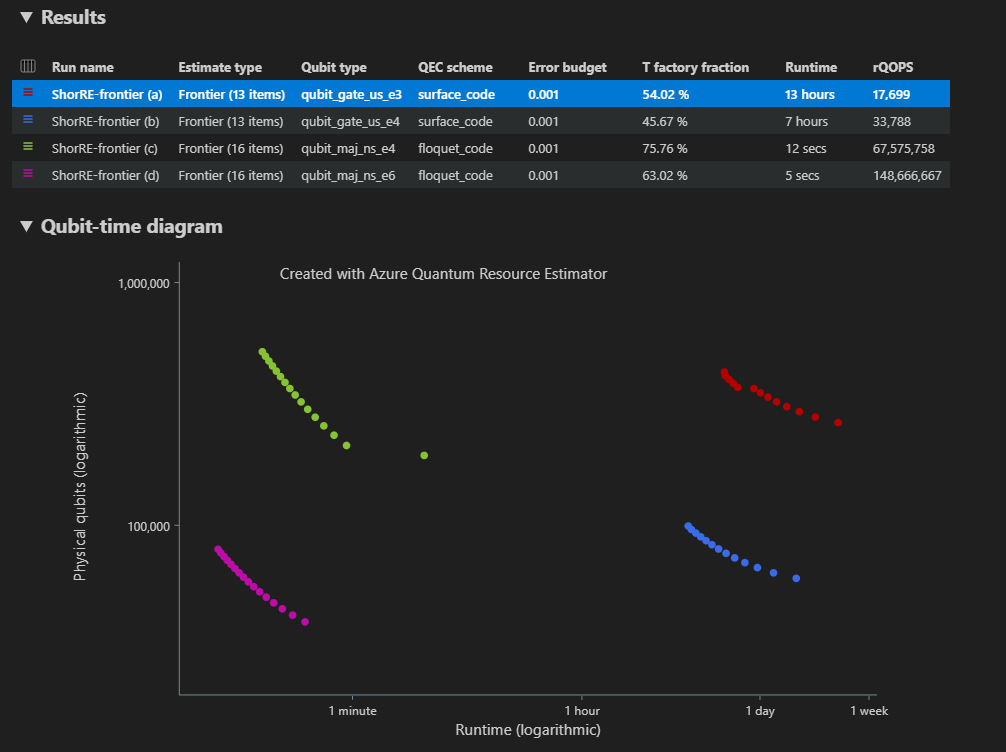
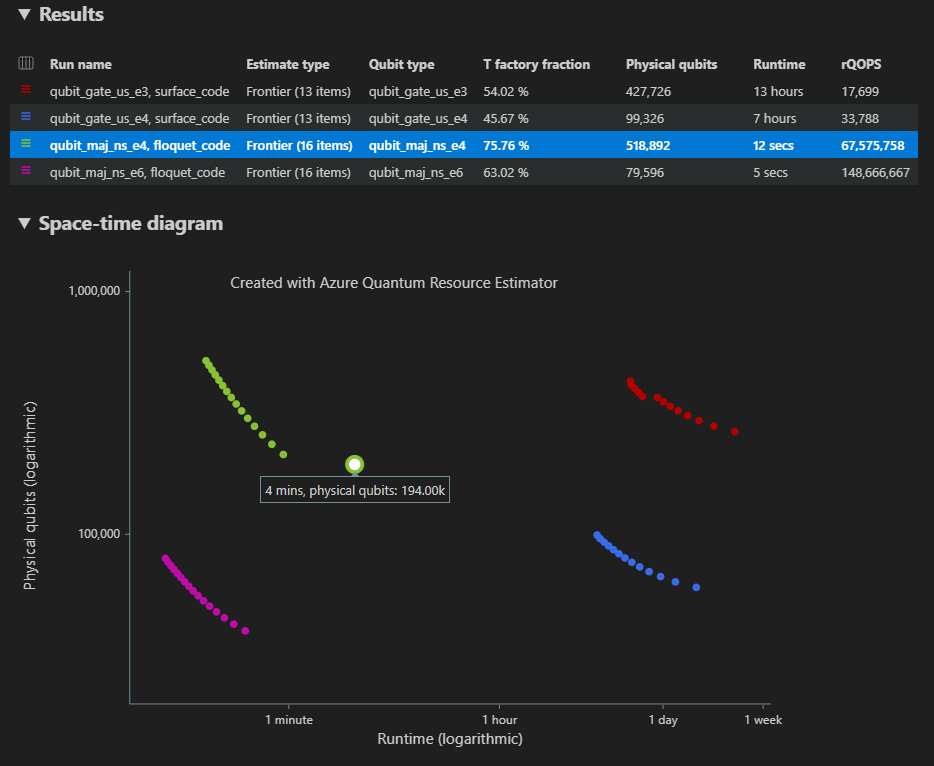
Updating diagrams

diff --git a/articles/includes/how-to-submit-resources-estimation-include-jupyter-local.md b/articles/includes/how-to-submit-resources-estimation-include-jupyter-local.md
@@ -438,9 +438,9 @@ In this example, the number of physical qubits required to run the algorithm are
 
 :::image type="content" source="../media/resource-estimator-diagram-jupyter.png" alt-text="Screen shot showing the space diagram of the Resource Estimator.":::
 
-### Qubit-time diagram
+### Space-time diagram
 
-The qubit-time diagram shows the tradeoffs between the number of physical qubits and the runtime of the algorithm. For more information, see [Qubit-time diagram](xref:microsoft.quantum.overview.resources-estimator-output.data#qubit-time-diagram).
+The space-time diagram shows the tradeoffs between the number of physical qubits and the runtime of the algorithm. For more information, see [Space-time diagram](xref:microsoft.quantum.overview.resources-estimator-output.data#space-time-diagram).
 
 You can use the `EstimatesOverview` function to visualize the qubit-time diagram of the Resource Estimator. 
 
@@ -453,7 +453,7 @@ The `EstimatesOverview` function also shows a table with the overall physical re
 
 :::image type="content" source="../media/qubit-time-diagram-jupyter-shorRE-1.png" alt-text="Screenshot showing how to select the estimates you want to display in the results table.":::
 
-In this case, the **Estimate type** is single estimate, thus the Resource Estimator calculates one point in the qubit-time diagram. If you want to see more combinations of $\text{\{number of qubits, runtime\}}$ pairs for the same algorithm, see [Running Pareto frontier estimation](#running-pareto-frontier-estimation).
+In this case, the **Estimate type** is single estimate, thus the Resource Estimator calculates one point of the space-time diagram. If you want to see more combinations of {number of qubits, runtime} pairs for the same algorithm, see [Running Pareto frontier estimation](#running-pareto-frontier-estimation).
 
 :::image type="content" source="../media/qubit-time-diagram-jupyter-shorRE.png" alt-text="Screenshot showing the qubit-time diagram of the Resource Estimator.":::
 
@@ -606,66 +606,66 @@ When estimating the resources of an algorithm, it's important to consider the tr
 
 The Pareto frontier estimation provides multiple estimates for the same algorithm, each with a tradeoff between the number of qubits and the runtime.
 
-To run the Resource Estimator using Pareto frontier estimation, you need to specify the `"estimateType"` target parameter as `"frontier"`. For example, run the same algorithm with the Majorana-based qubit parameters with a surface code using Pareto frontier estimation.
+1. To run the Resource Estimator using **Pareto frontier estimation**, you need to specify the `"estimateType"` target parameter as `"frontier"`. For example, run the same algorithm with the Majorana-based qubit parameters with a surface code using Pareto frontier estimation.
 
-```python
-result = qsharp.estimate("RunProgram()", params=
-                            {"qubitParams": { "name": "qubit_maj_ns_e4" },
-                            "qecScheme": { "name": "surface_code" },
-                            "estimateType": "frontier", # frontier estimation
-                            }
-                        )
-```
+    ```python
+    result = qsharp.estimate("RunProgram()", params=
+                                {"qubitParams": { "name": "qubit_maj_ns_e4" },
+                                "qecScheme": { "name": "surface_code" },
+                                "estimateType": "frontier", # frontier estimation
+                                }
+                            )
+    ```
 
-To see the results table and the space-time diagram, use the `EstimatesOverview` function.
+1. To see the results table and the space-time diagram, use the `EstimatesOverview` function.
 
-```python
-EstimatesOverview(result)
-```
+    ```python
+    EstimatesOverview(result)
+    ```
 
-In the "Estimate type" column of the results table, you can see the number of different combinations of $\text{\{number of qubits, runtime\}}$ for your algorithm. In this case, the Resource Estimator finds 22 different optimal combinations out of many thousands possible ones.
+1. In the **Estimate type** column of the results table, you can see the number of different combinations of {number of qubits, runtime} for your algorithm. In this case, the Resource Estimator finds 22 different optimal combinations out of many thousands possible ones.
 
-The space-time diagram shows the number of physical qubits and the runtime of the algorithm for each $\text{\{number of qubits, runtime\}}$ pair. You can hover over each point to see the details of the resource estimation at that point.
+1. The **space-time diagram** shows the number of physical qubits and the runtime of the algorithm for each {number of qubits, runtime} pair. You can hover over each point to see the details of the resource estimation at that point.
 
-:::image type="content" source="../media/qubit-time-frontier-estimation-jupyter-shorRE.png" alt-text="Screenshot showing the space-time diagram with frontier estimation of the Resource Estimator.":::
+    :::image type="content" source="../media/qubit-time-frontier-estimation-jupyter-shorRE.png" alt-text="Screenshot showing the space-time diagram with frontier estimation of the Resource Estimator.":::
 
 ### Batching with Pareto frontier estimation
 
-To estimate and compare multiple configurations of target parameters with frontier estimation, add `"estimateType": "frontier",` to the parameters.
+1. To estimate and compare multiple configurations of target parameters with frontier estimation, add `"estimateType": "frontier",` to the parameters.
 
-```python
-result = qsharp.estimate(
-    "RunProgram()",
-    [
-        {
-        "qubitParams": { "name": "qubit_maj_ns_e4" },
-        "qecScheme": { "name": "surface_code" },
-        "estimateType": "frontier", # Pareto frontier estimation
-        },
-        {
-        "qubitParams": { "name": "qubit_maj_ns_e6" },
-        "qecScheme": { "name": "floquet_code" },
-        "estimateType": "frontier", # Pareto frontier estimation
-        },
-    ]
-)
+    ```python
+    result = qsharp.estimate(
+        "RunProgram()",
+        [
+            {
+            "qubitParams": { "name": "qubit_maj_ns_e4" },
+            "qecScheme": { "name": "surface_code" },
+            "estimateType": "frontier", # Pareto frontier estimation
+            },
+            {
+            "qubitParams": { "name": "qubit_maj_ns_e6" },
+            "qecScheme": { "name": "floquet_code" },
+            "estimateType": "frontier", # Pareto frontier estimation
+            },
+        ]
+    )
+    
+    EstimatesOverview(result, colors=["#1f77b4", "#ff7f0e"], runNames=["e4 Surface Code", "e6 Floquet Code"])
+    ```
+    
+    :::image type="content" source="../media/qubit-time-frontier-multiple-config-shorRE.png" alt-text="Screenshot showing the space-time diagram of the Resource Estimator when using Pareto frontier estimation and multiple configurations of parameters.":::
+    
+    > [!NOTE]
+    > You can define colors and run names for the qubit-time diagram using the `EstimatesOverview` function.
 
-EstimatesOverview(result, colors=["#1f77b4", "#ff7f0e"], runNames=["e4 Surface Code", "e6 Floquet Code"])
-```
+1. When running multiple configurations of target parameters using the Pareto frontier estimation, you can see the resource estimates for a specific point of the space-time diagram, that is for each {number of qubits, runtime} pair. For example, the following code shows the estimate details usage for the second (estimate index=0) run and the fourth (point index=3) shortest runtime.
 
-:::image type="content" source="../media/qubit-time-frontier-multiple-config-shorRE.png" alt-text="Screenshot showing the space-time diagram of the Resource Estimator when using Pareto frontier estimation and multiple configurations of parameters.":::
+    ```python
+    EstimateDetails(result[1], 4)
+    ```
 
-> [!NOTE]
-> You can define colors and run names for the qubit-time diagram using the `EstimatesOverview` function.
+1. You can also see the space diagram for a specific point of the space-time diagram. For example, the following code shows the space diagram for the first run of combinations (estimate index=0) and the third shortest runtime (point index=2).
 
-When running multiple configurations of target parameters using the Pareto frontier estimation, you can see the resource estimates for a specific point of the space-time diagram, that is for each $\text{\{number of qubits, runtime\}}$ pair. For example, the following code shows the estimate details usage for the second (estimate index=0) run and the fourth (point index=3) shortest runtime.
-
-```python
-EstimateDetails(result[1], 4)
-```
-
-You can also see the space diagram for a specific point of the space-time diagram. For example, the following code shows the space diagram for the first run of combinations (estimate index=0) and the third shortest runtime (point index=2).
-
-```python
-SpaceChart(result[0], 2)
-```
+    ```python
+    SpaceChart(result[0], 2)
+    ```

diff --git a/articles/includes/how-to-submit-resources-estimation-include-qsharp-local.md b/articles/includes/how-to-submit-resources-estimation-include-qsharp-local.md
@@ -391,7 +391,7 @@ namespace Shors {
 
 ## Run the Resource Estimator
 
-The Resource Estimator offers [six pre-defined qubit parameters](xref:microsoft.quantum.overview.resources-estimator#physical-qubit-parameters), four of which have gate-based instruction sets and two that have a Majorana instruction set. It also offers two [quantum error correction codes](xref:microsoft.quantum.overview.resources-estimator#quantum-error-correction-codes), `surface_code` and `floquet_code`.
+The Resource Estimator offers [six predefined qubit parameters](xref:microsoft.quantum.overview.resources-estimator#physical-qubit-parameters), four of which have gate-based instruction sets and two that have a Majorana instruction set. It also offers two [quantum error correction codes](xref:microsoft.quantum.overview.resources-estimator#quantum-error-correction-codes), `surface_code` and `floquet_code`.
 
 In this example, you run the Resource Estimator using the `qubit_gate_us_e3` qubit parameter and the `surface_code` quantum error correction code. 
 
@@ -402,22 +402,30 @@ In this example, you run the Resource Estimator using the `qubit_gate_us_e3` qub
 
 ## View the results
 
-1. The result of the resource estimation is displayed in the **Q# Estimate** window.
+The Resource Estimator provides multiple estimates for the same algorithm, each showing tradeoffs between the number of qubits and the runtime. Understanding the tradeoff between runtime and system scale is one of the more important aspects of resource estimation.  
+
+The result of the resource estimation is displayed in the **Q# Estimate** window. 
+
 1. The **Results** tab displays a summary of the resource estimation. **Click the icon** next to the first row to select the columns you want to display. You can select from run name, estimate type, qubit type, qec scheme, error budget, logical qubits, logical depth, code distance, T states, T factories, T factory fraction, runtime, rQOPS, and physical qubits.
 
     :::image type="content" source="../media/vscode-estimates-local-results-tab-shorRE.png" alt-text="Screenshot showing how to display the menu to select the resource estimate outputs of your choice.":::
 
-1. The **Space-time diagram** shows the tradeoffs between the number of physical qubits and the runtime of the algorithm. In the "Estimate type" column of the results table, you can see the number of different combinations of $\text{\{number of qubits, runtime\}}$ for your algorithm algorithm. In this case, the Resource Estimator finds 17 different optimal combinations out of many thousands possible ones.
+    In the **Estimate type** column of the results table, you can see the number of optimal combinations of *{number of qubits, runtime}* for your algorithm. These combinations can be seen in the space-time diagram.
+
+1. The **Space-time diagram** shows the tradeoffs between the number of physical qubits and the runtime of the algorithm. In this case, the Resource Estimator finds 13 different optimal combinations out of many thousands possible ones. You can hover over each {number of qubits, runtime} point to see the details of the resource estimation at that point.
 
     :::image type="content" source="../media/qubit-time-diagram-shorRE.png" alt-text="Screenshot showing the space-time diagram of the Resource Estimator.":::
 
-    The space-time diagram shows the number of physical qubits and the runtime of the algorithm for each $\text{\{number of qubits, runtime\}}$ pair. You can hover over each point to see the details of the resource estimation at that point. For more information, see [Space-time diagram](xref:microsoft.quantum.overview.resources-estimator-output.data#space-time-diagram).
+    For more information, see [Space-time diagram](xref:microsoft.quantum.overview.resources-estimator-output.data#space-time-diagram).
 
-1. The **Space diagram** shows the distribution of physical qubits used for the algorithm and the [T factories](xref:microsoft.quantum.concepts.tfactories). In this example, the number of physical qubits required to run the algorithm are 427726, 196686 of which are algorithm qubits and 231040 of which are T factory qubits.
+    > [!NOTE]
+    > You need to **click on one point** of the space-time diagram, that is a {number of qubits, runtime} pair, to see the space diagram and the details of the resource estimation corresponding to that point.
+    
+1. The **Space diagram** shows the distribution of physical qubits used for the algorithm and the [T factories](xref:microsoft.quantum.concepts.tfactories), corresponding to a {number of qubits, runtime} pair. For example, if you select the leftmost point in the space-time diagram, the number of physical qubits required to run the algorithm are 427726, 196686 of which are algorithm qubits and 231040 of which are T factory qubits.
 
     :::image type="content" source="../media/vscode-estimates-local-diagram-shorRE.png" alt-text="Screenshot showing the space diagram of the Resource Estimator.":::
 
-1. Finally, the **Resource Estimates** tab displays the full list of output data for the Resource Estimator. You can inspect cost details by collapsing the groups, which have more information. For example, collapse the **Logical qubit parameters** group. For more information, see [the full report data of the Resource Estimator](xref:microsoft.quantum.overview.resources-estimator-output.data#report-data).
+1. Finally, the **Resource Estimates** tab displays the full list of output data for the Resource Estimator corresponding to a *{number of qubits, runtime}* pair. You can inspect cost details by collapsing the groups, which have more information. For example, select the leftmost point in the space-time diagram and collapse the **Logical qubit parameters** group. 
 
     |Logical qubit parameter| Value |
     |----|---|
@@ -434,6 +442,7 @@ In this example, you run the Resource Estimator using the `qubit_gate_us_e3` qub
     > [!TIP]
     > Click **Show detailed rows** to display the description of each output of the report data. 
     
+    For more information, see [the full report data of the Resource Estimator](xref:microsoft.quantum.overview.resources-estimator-output.data#report-data).
 
 ## Change the target parameters
 
@@ -451,7 +460,9 @@ The Azure Quantum Resource Estimator can run multiple configurations of target p
 1. Select **qubit_gate_us_e3**, **qubit_gate_us_e4**, **qubit_maj_ns_e4 + floquet_code**, and **qubit_maj_ns_e6 + floquet_code**, and click **OK**.
 1. Accept the default error budget value 0.001 and press **Enter**.
 1. Press **Enter** to accept the input file, in this case, **ShorRE.qs**.
-1. In the case of multiple configurations of parameters, the results are displayed in different rows in the **Results** tab. Click on a result from the table to bring up the corresponding space diagram and report data.
+1. In the case of multiple configurations of parameters, the results are displayed in different rows in the **Results** tab. 
 1. The **Space-time diagram** shows the results for all the configurations of parameters. The first column of the results table displays the legend for each configuration of parameters. You can hover over each point to see the details of the resource estimation at that point.
 
     :::image type="content" source="../media/multiple-configurations-frontier-shorRE.png" alt-text="Screenshot showing the space-time diagram and the table of results when running multiple configurations of parameter in the Resource Estimator.":::
+
+1. Click on a **{number of qubits, runtime} point** of the space-time diagram to bring up the corresponding space diagram and report data.

diff --git a/articles/overview-resource-estimator-output-data.md b/articles/overview-resource-estimator-output-data.md
@@ -262,7 +262,7 @@ from qsharp_widgets import SpaceChart
 SpaceChart(result)
 ```
 
-:::image type="content" source="media/resource-estimator-space-diagram.png" alt-text="Pie diagram showing the distribution of total physical qubits between algorithm qubits and T factory qubits. There's a table with the breakdown of number of T factory copies and number of physical qubits per T factory.":::
+:::image type="content" source="media/vscode-estimates-local-diagram-shorRE.png" alt-text="Pie diagram showing the distribution of total physical qubits between algorithm qubits and T factory qubits. There's a table with the breakdown of number of T factory copies and number of physical qubits per T factory.":::
 
 When running multiple configurations of target parameters with the the [Pareto frontier estimation](xref:microsoft.quantum.overview.resources-estimator#pareto-frontier-estimation), you can plot the space diagram for a specific solution of the. For example, the following code shows how to plot the space diagram for the first configuration of parameters and the third shortest runtime.
 
@@ -279,7 +279,7 @@ When estimating the resources of an algorithm, you can use the space-time diagra
 > [!NOTE]
 > To see multiple optimal combinations in the space-time diagram, you need to set the estimation type to [Pareto frontier estimation](xref:microsoft.quantum.overview.resources-estimator#pareto-frontier-estimation).
 
-The space-time diagram allows you to find the optimal combination of $\text{\{number of qubits, runtime\}}$ pairs that satisfy the constraints of the quantum hardware. The diagram shows the number of physical qubits and the runtime of the algorithm for each $\text{\{number of qubits, runtime\}}$ pair.
+The space-time diagram allows you to find the optimal combination of {number of qubits, runtime} pairs that satisfy the constraints of the quantum hardware. The diagram shows the number of physical qubits and the runtime of the algorithm for each {number of qubits, runtime} pair.
 
 ```python
 import qsharp

diff --git a/articles/intro-to-resource-estimation.md b/articles/intro-to-resource-estimation.md
@@ -66,7 +66,9 @@ You can reduce the execution time of the Resource Estimator by incorporating som
 
 ### Visualization of resources
 
-You can inspect the distribution of physical qubits used for the algorithm and the T factories using the [space diagram](xref:microsoft.quantum.overview.resources-estimator-output.data#space-diagram).
+You can visualize the tradeoffs between the number of physical qubits and the runtime of the algorithm using the [space-time diagram](xref:microsoft.quantum.overview.resources-estimator-output.data#space-time-diagram), which allows you to find the optimal combination of {number of qubits, runtime} pairs.
+
+You can also inspect the distribution of physical qubits used for the algorithm and the T factories using the [space diagram](xref:microsoft.quantum.overview.resources-estimator-output.data#space-diagram).
 
 ## Get started with the Resource Estimator
 
